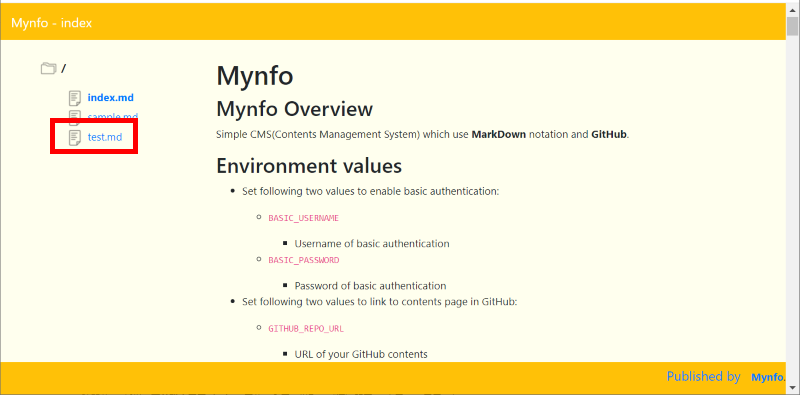
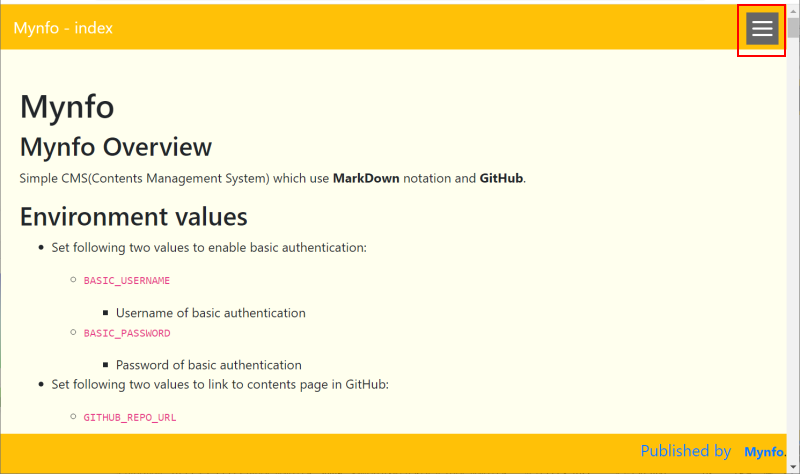
README.md updated with new UI

diff --git a/README.md b/README.md
@@ -165,13 +165,17 @@ As a sample, you would add one new `test.md` file, and push it to main branch:
 
 <img class="img90" src="https://raw.githubusercontent.com/dotnsf/mynfo/main/public/img/system13.png"/>
 
-- (4) You will see current(new) application. You can see `test.md`, which has been just added, in menu.
+- (4) You will see current(new) application. 
 
 <img class="img90" src="https://raw.githubusercontent.com/dotnsf/mynfo/main/public/img/system14.png"/>
 
-- (5) If you click `test.md`, you will see and confirm contents of `test.md` file.
+- (5) You can see `test.md` in hamberger-menu on top-right, which has been just added, in menu.
 
 <img class="img90" src="https://raw.githubusercontent.com/dotnsf/mynfo/main/public/img/system15.png"/>
+
+- (6) If you click `test.md`, you will see and confirm contents of newly added `test.md` file.
+
+<img class="img90" src="https://raw.githubusercontent.com/dotnsf/mynfo/main/public/img/system20.png"/>
 
 
 ## Licensing
